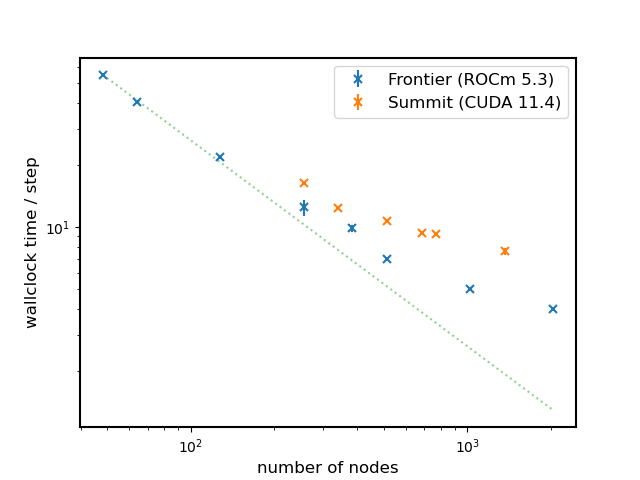
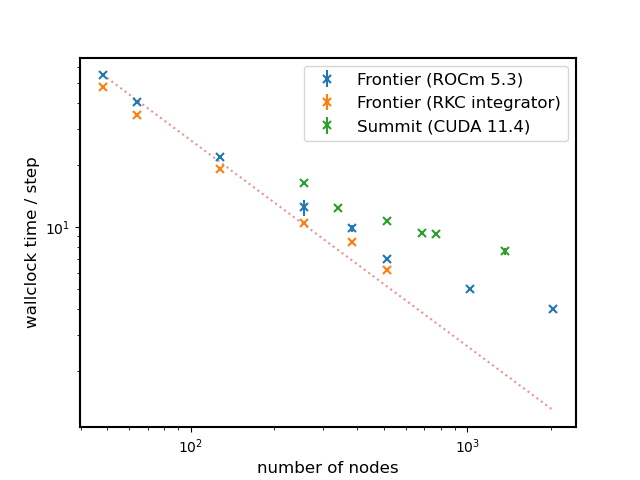
some more frontier scaling numbers

diff --git a/Exec/science/flame_wave/scaling/frontier/frontier_scaling.py b/Exec/science/flame_wave/scaling/frontier/frontier_scaling.py
@@ -15,6 +15,12 @@ frontier_nodes = frontier_data[:, 0]
 frontier_times = frontier_data[:, 3]
 frontier_std = frontier_data[:, 4]
 
+frontier_rkc_data = np.loadtxt("frontier-scaling-rkc-2023-05-31.txt")
+
+frontier_rkc_nodes = frontier_rkc_data[:, 0]
+frontier_rkc_times = frontier_rkc_data[:, 3]
+frontier_rkc_std = frontier_rkc_data[:, 4]
+
 summit_data = np.loadtxt("../summit/scaling_20230407.txt")
 
 summit_nodes = summit_data[:, 0]
@@ -34,6 +40,7 @@ def trend_line(c, t):
 fig, ax = plt.subplots(1)
 
 ax.errorbar(frontier_nodes, frontier_times, yerr=frontier_std, ls="None", marker="x", label="Frontier (ROCm 5.3)")
+ax.errorbar(frontier_rkc_nodes, frontier_rkc_times, yerr=frontier_rkc_std, ls="None", marker="x", label="Frontier (RKC integrator)")
 ax.errorbar(summit_nodes, summit_times, yerr=summit_std, ls="None", marker="x", label="Summit (CUDA 11.4)")
 
 c, t = trend_line(frontier_nodes, frontier_times)
